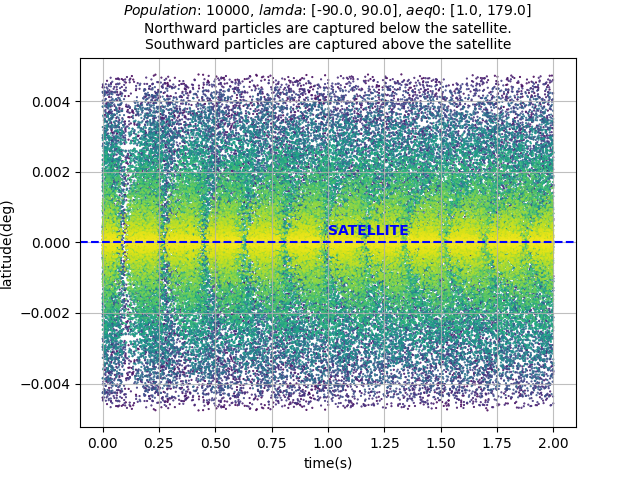
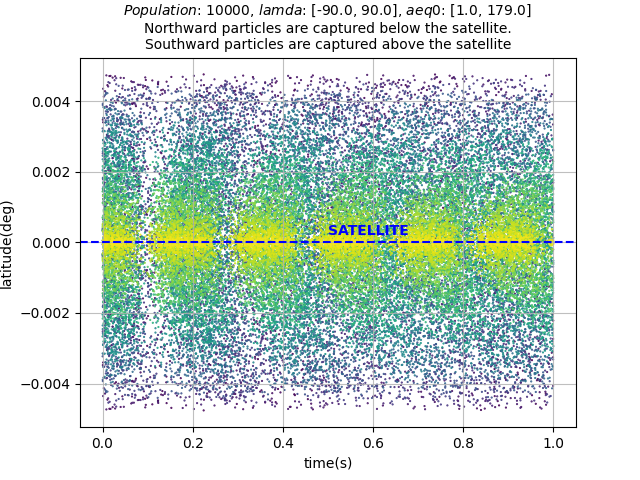
just plots

diff --git a/Telescope/src/tracer/main.cc b/Telescope/src/tracer/main.cc
@@ -175,20 +175,20 @@ int main(int argc, char **argv)
 
 
 //------------------------------------------------------------ OUTPUT DATA HDF5 --------------------------------------------------------------------------//
-	std::vector<std::vector<real>> precip_lamda(Constants::population, std::vector<real> (Constants::Nsteps_wpi + 1 ,0 ) );
-	std::vector<std::vector<real>> precip_alpha(Constants::population, std::vector<real> (Constants::Nsteps_wpi + 1 ,0 ) );
-	std::vector<std::vector<real>> precip_aeq(Constants::population, std::vector<real> (Constants::Nsteps_wpi + 1 ,0 ) );
-	std::vector<std::vector<real>> precip_time(Constants::population, std::vector<real> (Constants::Nsteps_wpi + 1 ,0 ) );
+	std::vector<real> precip_lamda(Constants::population);
+	std::vector<real> precip_alpha(Constants::population);
+	std::vector<real> precip_aeq(Constants::population);
+	std::vector<real> precip_time(Constants::population);
 
 	//Assign from struct to 2d vectors.
 	for(int p=0; p<Constants::population; p++)
 	{
 	    for(size_t i=0; i<dstr[p].alpha.size(); i++)  
 	    {
-			precip_lamda[p][i] = dstr[p].lamda.at(0); 
-			precip_alpha[p][i] = dstr[p].alpha.at(i);
-			precip_aeq[p][i] = dstr[p].aeq.at(i);
-			precip_time[p][i] = dstr[p].time.at(i);
+			precip_lamda[p] = dstr[p].lamda.at(0); 
+			precip_alpha[p] = dstr[p].alpha.at(0);
+			precip_aeq[p] = dstr[p].aeq.at(0);
+			precip_time[p] = dstr[p].time.at(0);
 	    }
 	}
     

diff --git a/Telescope/src/headers/constants.h b/Telescope/src/headers/constants.h
@@ -50,8 +50,8 @@ const real pulse_duration=0.1;          		//Wave pulse duration in seconds.
 
 
 //--Simulation parameters--//
-const real t = 2;        				  	    //Simulation time in seconds.
-const real t_nowpi = 1;                         //NoWPI time.
+const real t = 1;        				  	    //Simulation time in seconds.
+const real t_nowpi = 0.5;                         //NoWPI time.
 const real t_wpi = t - t_nowpi;                 //WPI time.
 const real h=0.00001;						    //Runge kutta stepsize. Has to be much less than the particle's gyroperiod?
 const int64_t Nsteps_wpi  = t_wpi/h; 			//WPI step count
